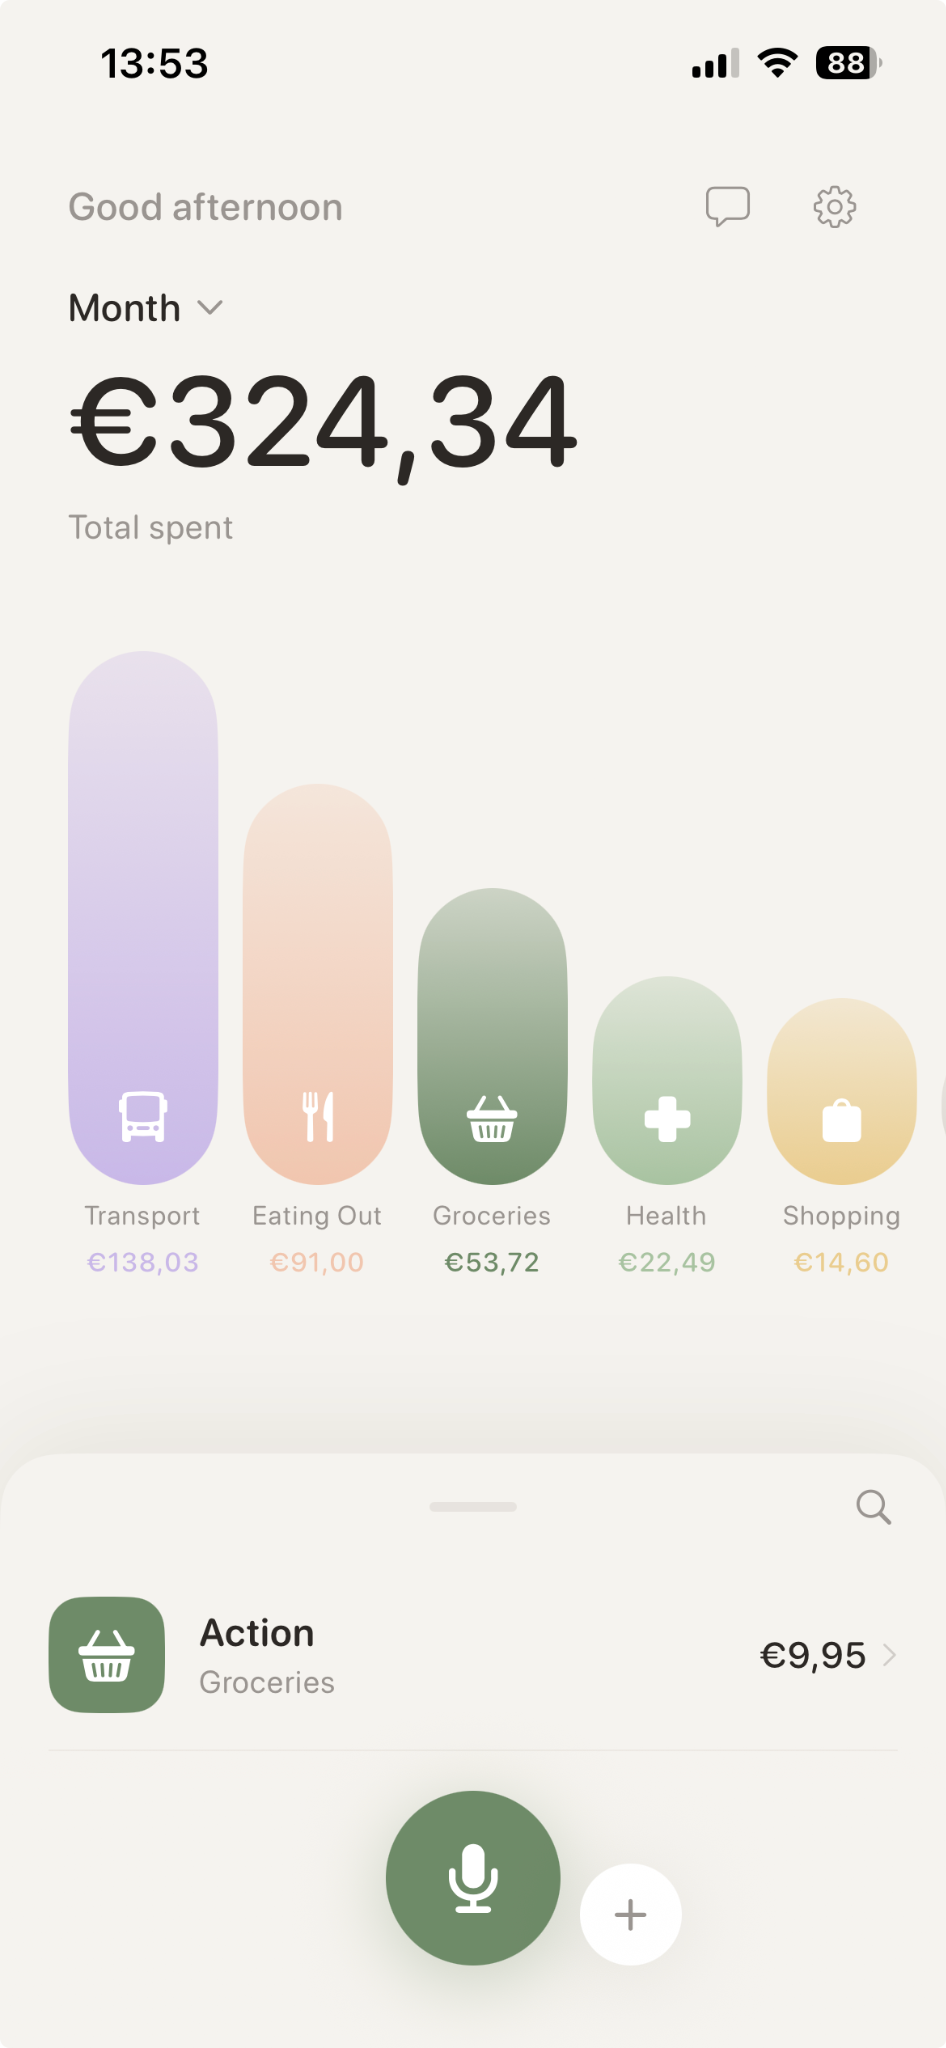
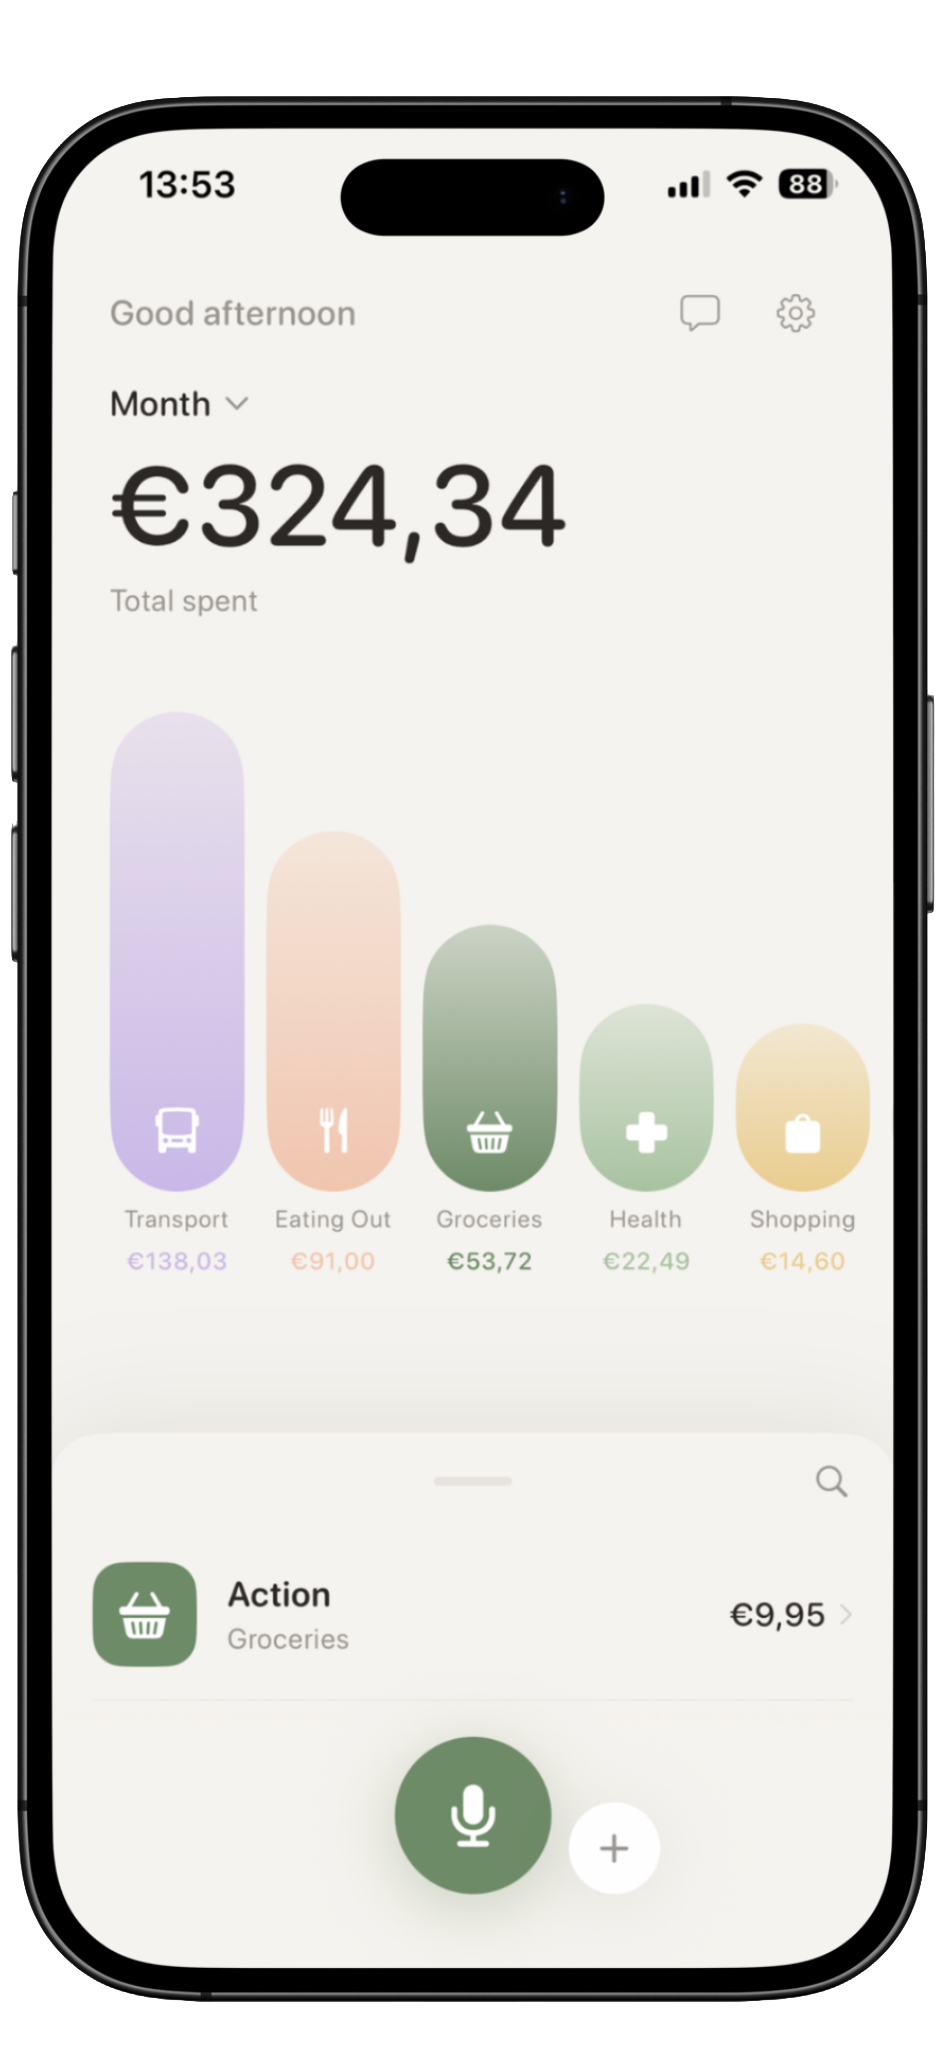
update images to have a phone around it, added new images for the speaking feature

Changed region(s): [[0.0, 0.0, 1.0, 1.0], [0.4598, 0.5312, 0.5825, 0.625]]

diff --git a/kira/index.html b/kira/index.html
@@ -599,6 +599,10 @@
             object-fit: cover;
         }
 
+        .how-col-shots.triple img {
+            width: calc(33.33% - 7px);
+        }
+
         .how-col-shots.single img {
             width: 100%;
         }
@@ -1231,8 +1235,10 @@
                         <h3>Speak naturally</h3>
                         <p>Say something like "Spent €12 at Lidl" and Kira turns it into an expense with amount, merchant, category, and tags.</p>
                     </div>
-                    <div class="how-col-shots single">
-                        <img src="assets/chat-screen.png" alt="Kira AI chat screen showing voice input parsed into expense" loading="lazy" class="screenshot" />
+                    <div class="how-col-shots triple">
+                        <img src="assets/speak_start.png" alt="Kira speak button ready to record" loading="lazy" class="screenshot" />
+                        <img src="assets/speak_bubble.png" alt="Kira listening with speech bubble" loading="lazy" class="screenshot" />
+                        <img src="assets/speak_result.png" alt="Kira expense created from voice input" loading="lazy" class="screenshot" />
                     </div>
                 </div>
                 <!-- Scan -->
